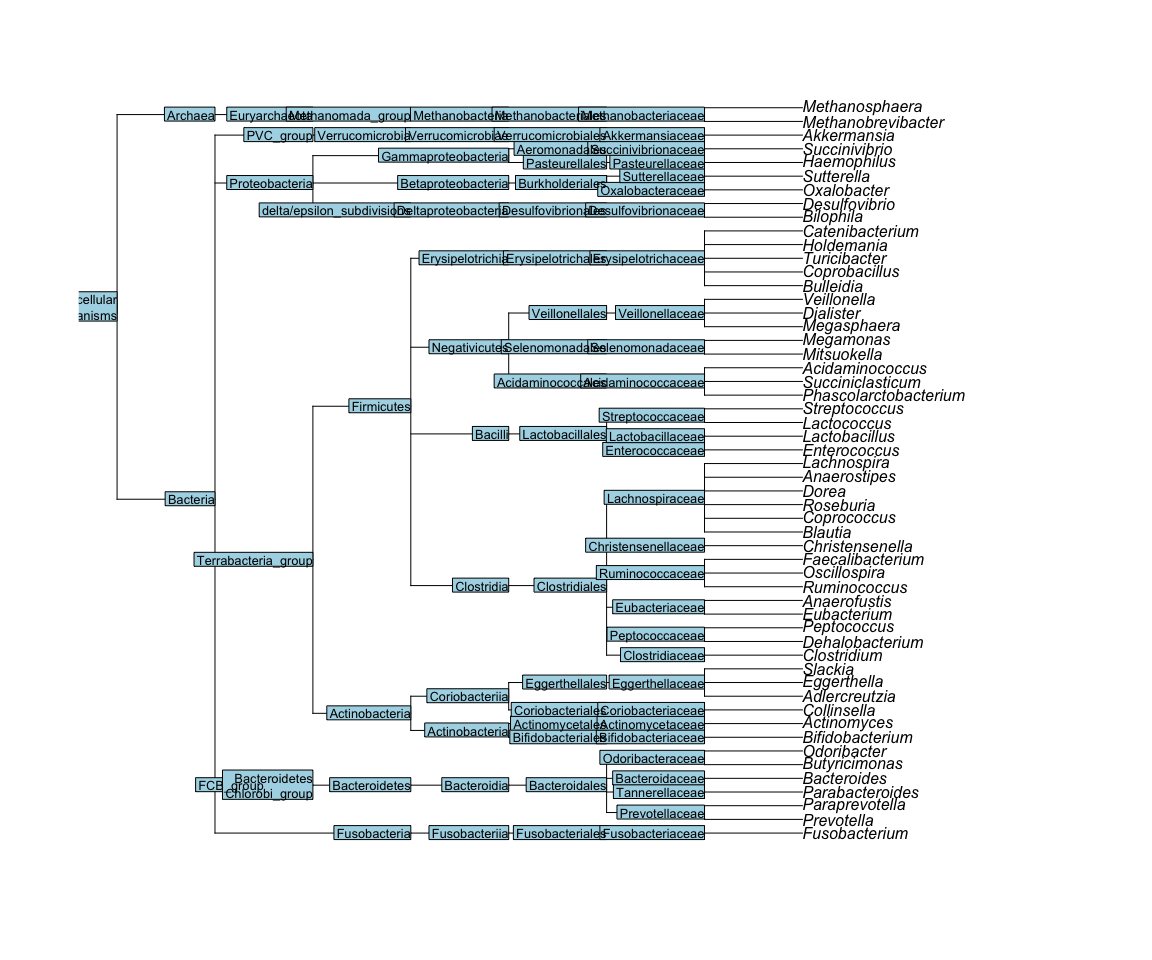
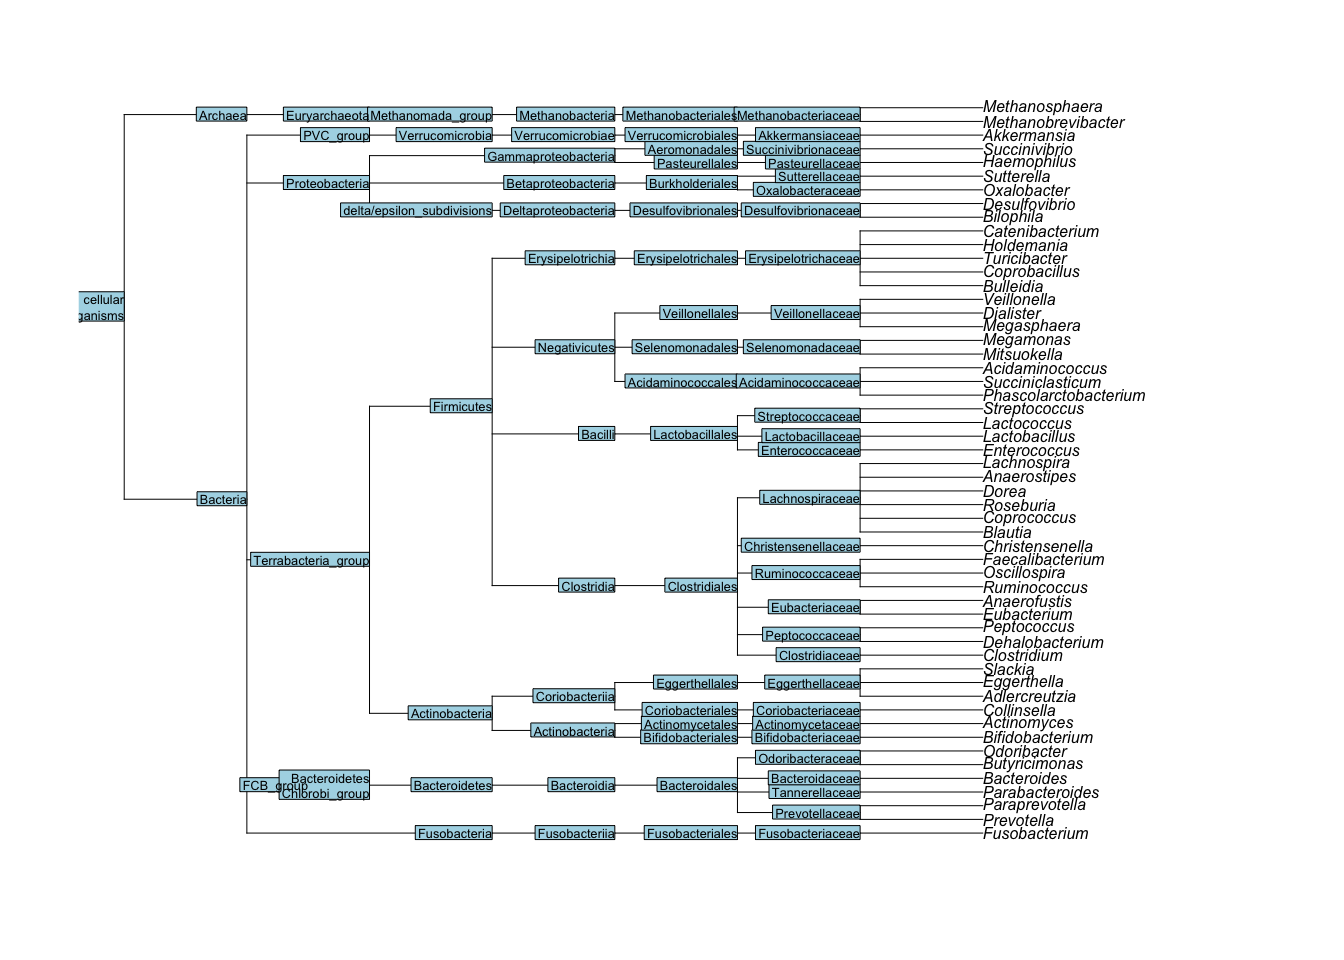
README QMP: figure path is corrected

Changed region(s): [[0.125, 0.0938, 0.6562, 0.875], [0.6875, 0.0938, 0.8438, 0.875], [0.0312, 0.2812, 0.125, 0.3438]]

diff --git a/QMPdata/README.md b/QMPdata/README.md
@@ -53,7 +53,7 @@ nodelabels(qmptree$node.label, cex=0.8, adj=1)
 corrplot(H)
 ```
 
-![](README_QMP_files/figure-gfm/example-2.png)<!-- -->
+![](../README_QMP_files/figure-gfm/example-2.png)<!-- -->
 
 ### Set hyperparameters
 
